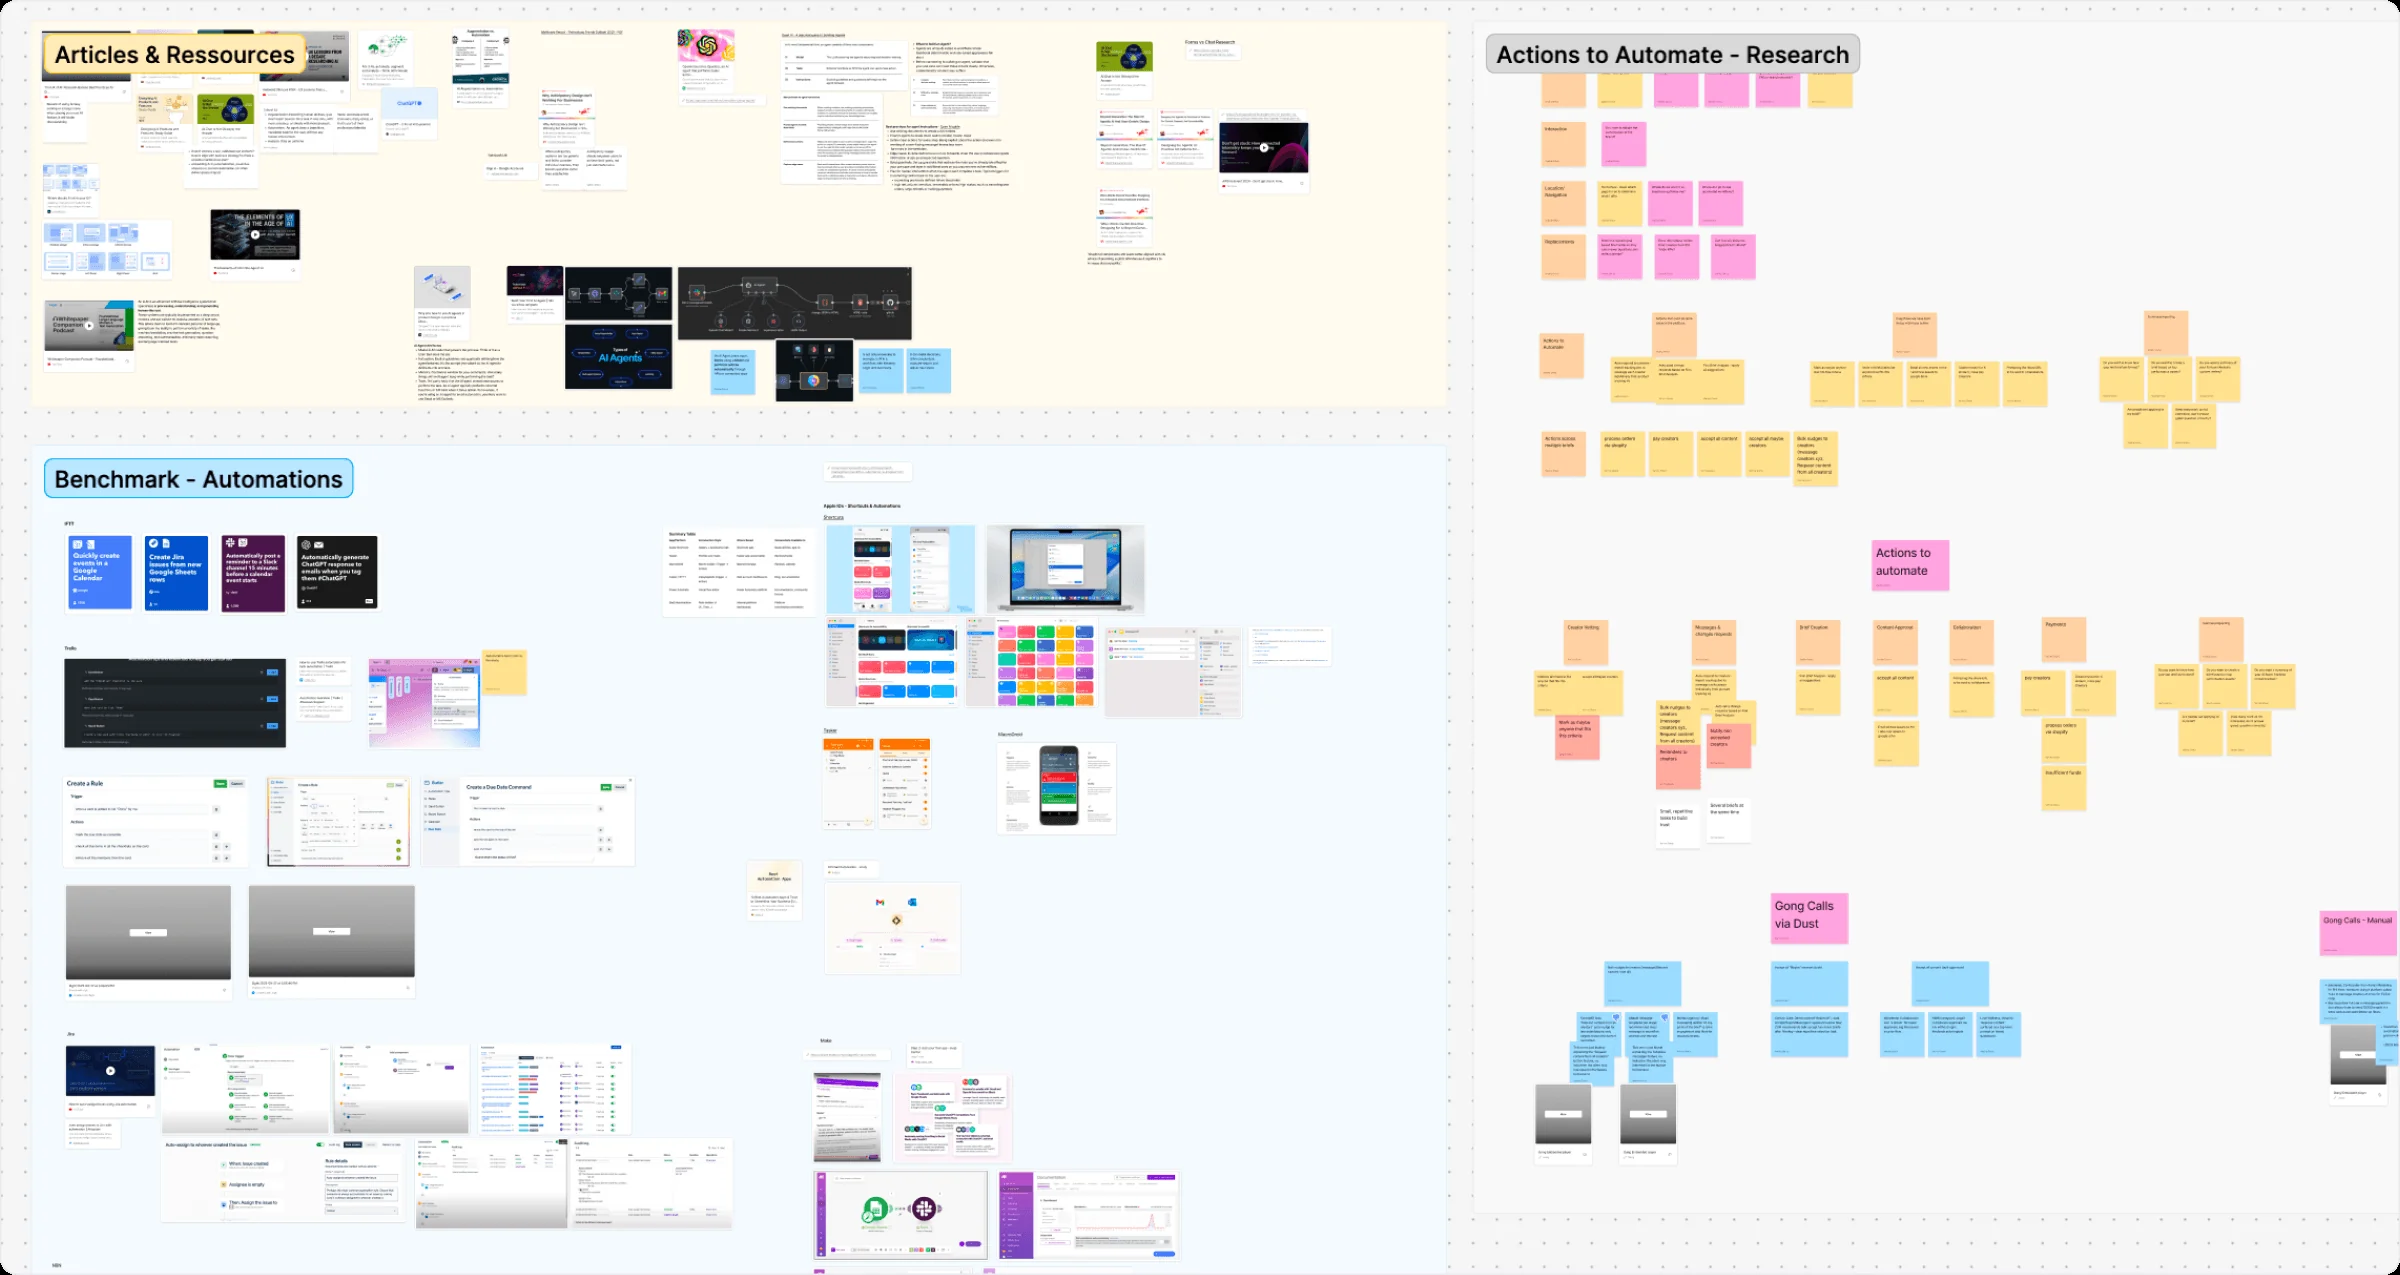
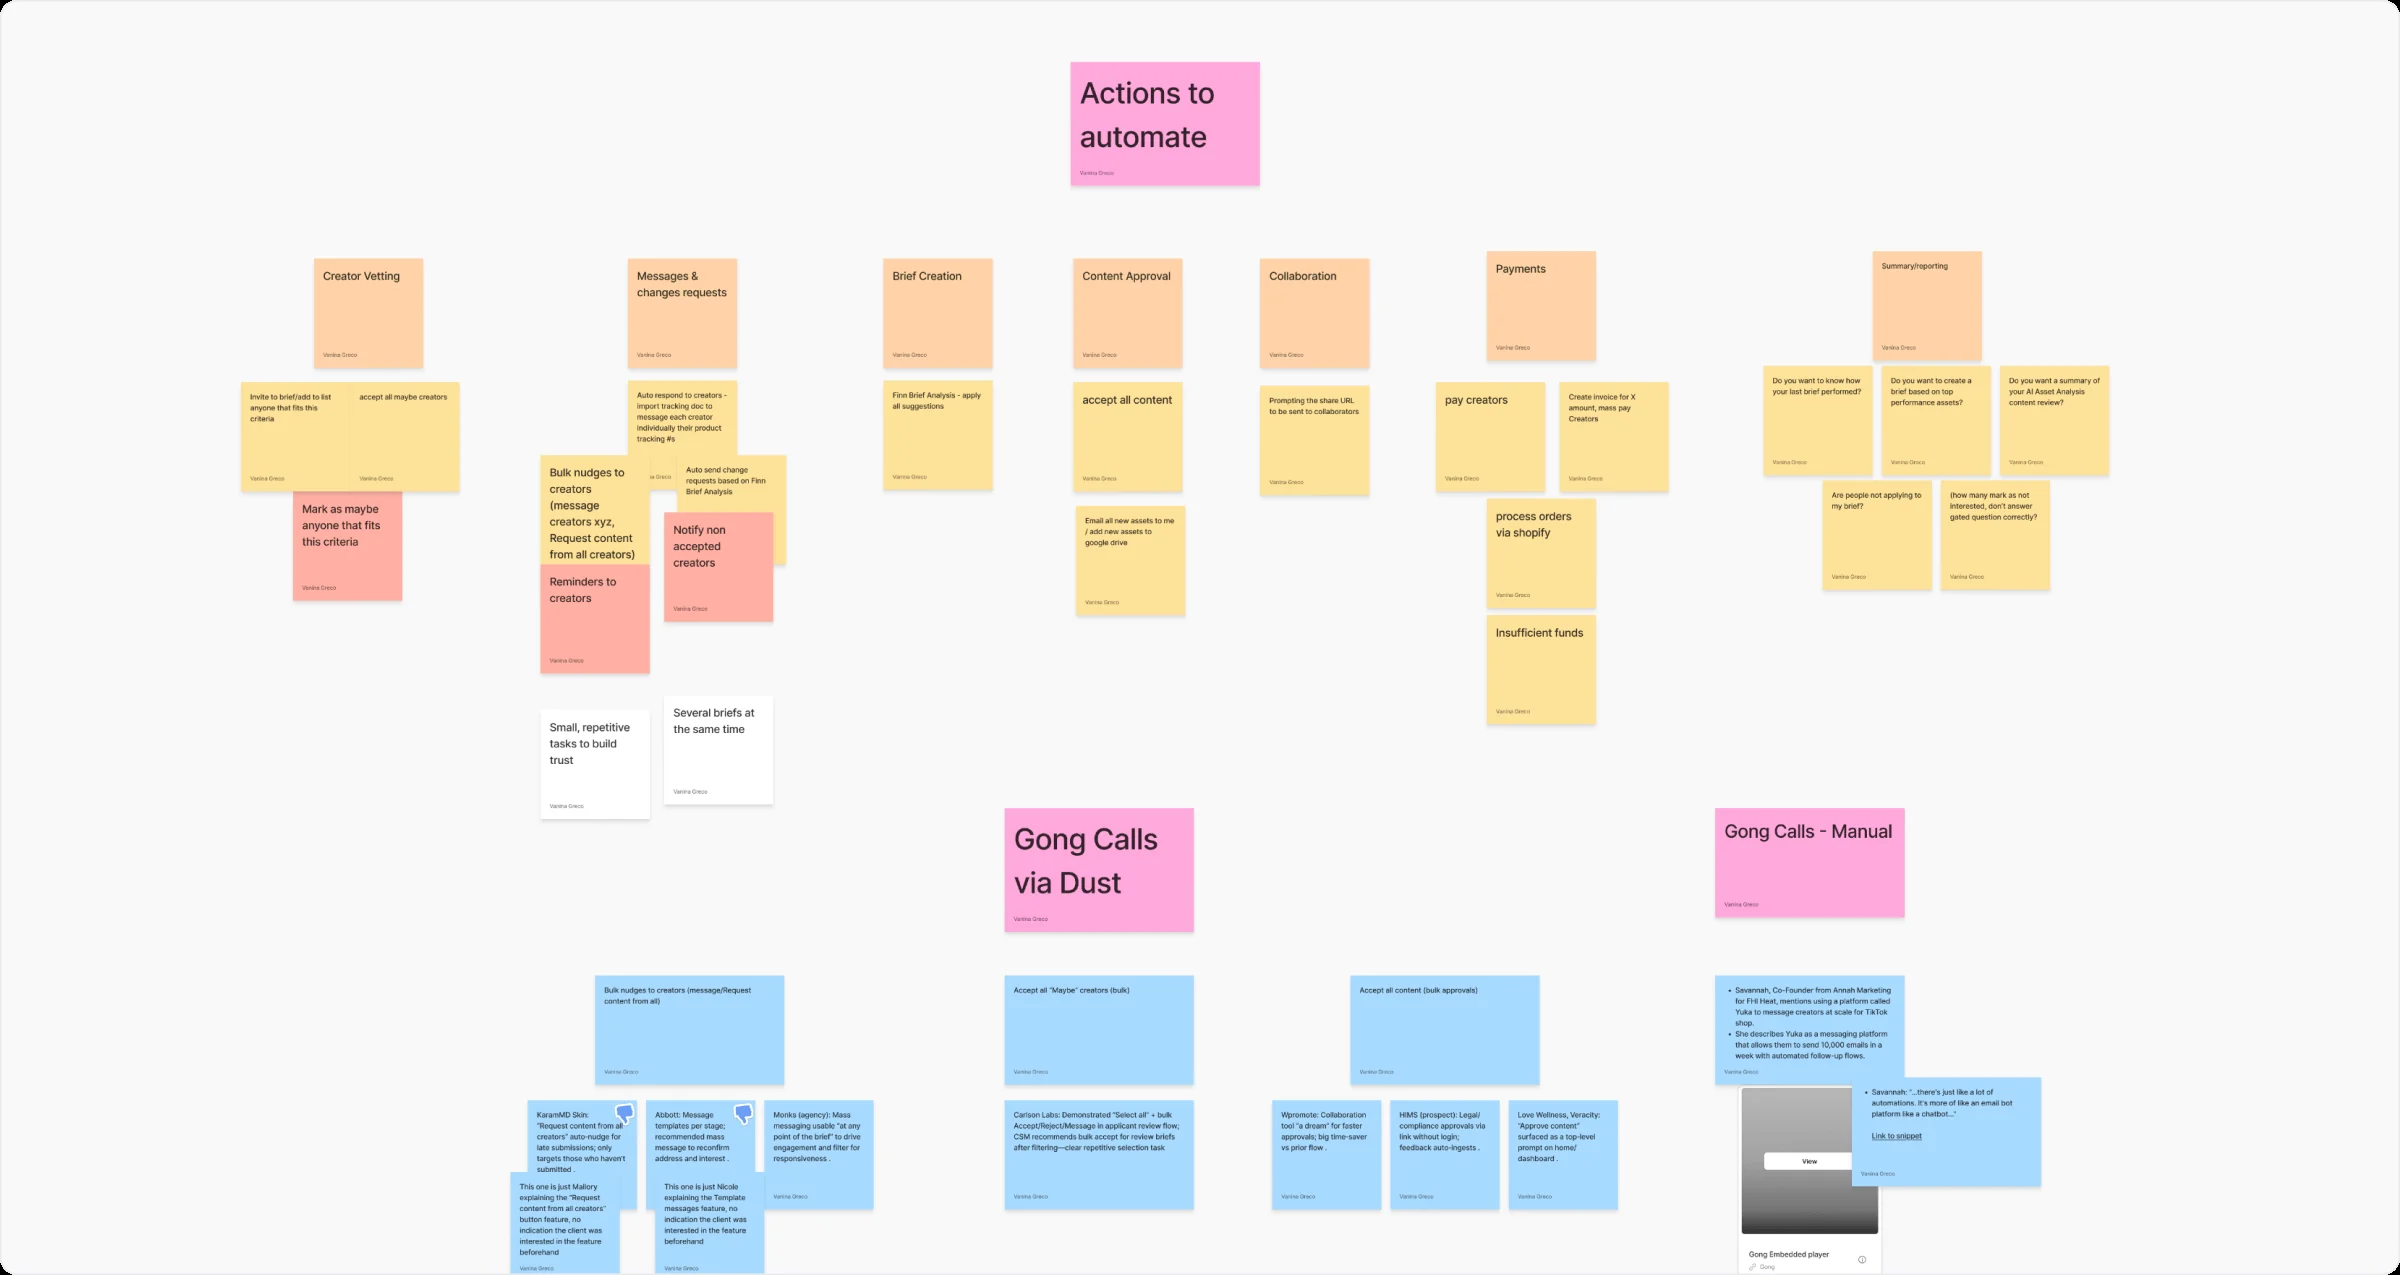
Split research board into benchmark and actions images, one per section
Claude-Session: https://claude.ai/code/session_01ScZWVYV6pDDWvBkjzV5qA5

diff --git a/case-studies/ai-agent.html b/case-studies/ai-agent.html
@@ -114,11 +114,15 @@
 <h2>1. Discover</h2>
 <h3>Desk research</h3>
 <p>I conducted extensive research on relevant subjects such as AI trust, AI UX patterns, when to use automation, and how agents should fit within an existing product.</p>
+<figure class="figure figure--wide">
+<a class="zoom" href="../assets/img/ai-agent-benchmark-full.webp" target="_blank" rel="noopener" aria-label="Open the full-size image in a new tab: Research board with articles and resources on AI agents and UX at the top, and a benchmark of automation tools such as IFTTT, Trello and Apple Shortcuts below"><picture><source media="(max-width:639px)" srcset="../assets/img/ai-agent-benchmark-mobile.webp" width="1052" height="1275"><img src="../assets/img/ai-agent-benchmark.webp" data-full="../assets/img/ai-agent-benchmark-full.webp" alt="Research board with articles and resources on AI agents and UX at the top, and a benchmark of automation tools such as IFTTT, Trello and Apple Shortcuts below" width="2000" height="1063" loading="lazy"></picture></a>
+<figcaption>Desk research: articles and resources on AI agents and UX (top), and a benchmark of automation tools (bottom)</figcaption>
+</figure>
 <h3>Client feedback analysis</h3>
 <p>I analyzed recurring client needs from Gong calls using Dust AI to identify frequent tasks we could automate.</p>
 <figure class="figure figure--wide">
-<a class="zoom" href="../assets/img/ai-agent-actions-full.webp" target="_blank" rel="noopener" aria-label="Open the full-size image in a new tab: Two research boards: on the left, articles, resources and benchmarks of automation tools; on the right, sticky notes grouping the actions to automate from client feedback"><picture><source media="(max-width:639px)" srcset="../assets/img/ai-agent-actions-mobile.webp" width="924" height="1275"><img src="../assets/img/ai-agent-actions.webp" data-full="../assets/img/ai-agent-actions-full.webp" alt="Two research boards: on the left, articles, resources and benchmarks of automation tools; on the right, sticky notes grouping the actions to automate from client feedback" width="2000" height="1062" loading="lazy"></picture></a>
-<figcaption>Desk research (articles, resources and automation benchmarks) next to the actions to automate that I mapped from client feedback</figcaption>
+<a class="zoom" href="../assets/img/ai-agent-actions-full.webp" target="_blank" rel="noopener" aria-label="Open the full-size image in a new tab: Board of sticky notes with actions to automate grouped by theme, such as creator vetting, messages, content approval and payments, with supporting insights from Gong calls below"><picture><source media="(max-width:639px)" srcset="../assets/img/ai-agent-actions-mobile.webp" width="1102" height="900"><img src="../assets/img/ai-agent-actions.webp" data-full="../assets/img/ai-agent-actions-full.webp" alt="Board of sticky notes with actions to automate grouped by theme, such as creator vetting, messages, content approval and payments, with supporting insights from Gong calls below" width="2000" height="1063" loading="lazy"></picture></a>
+<figcaption>Actions to automate, grouped by theme, with the Gong call insights behind them</figcaption>
 </figure>
 </section>
 
